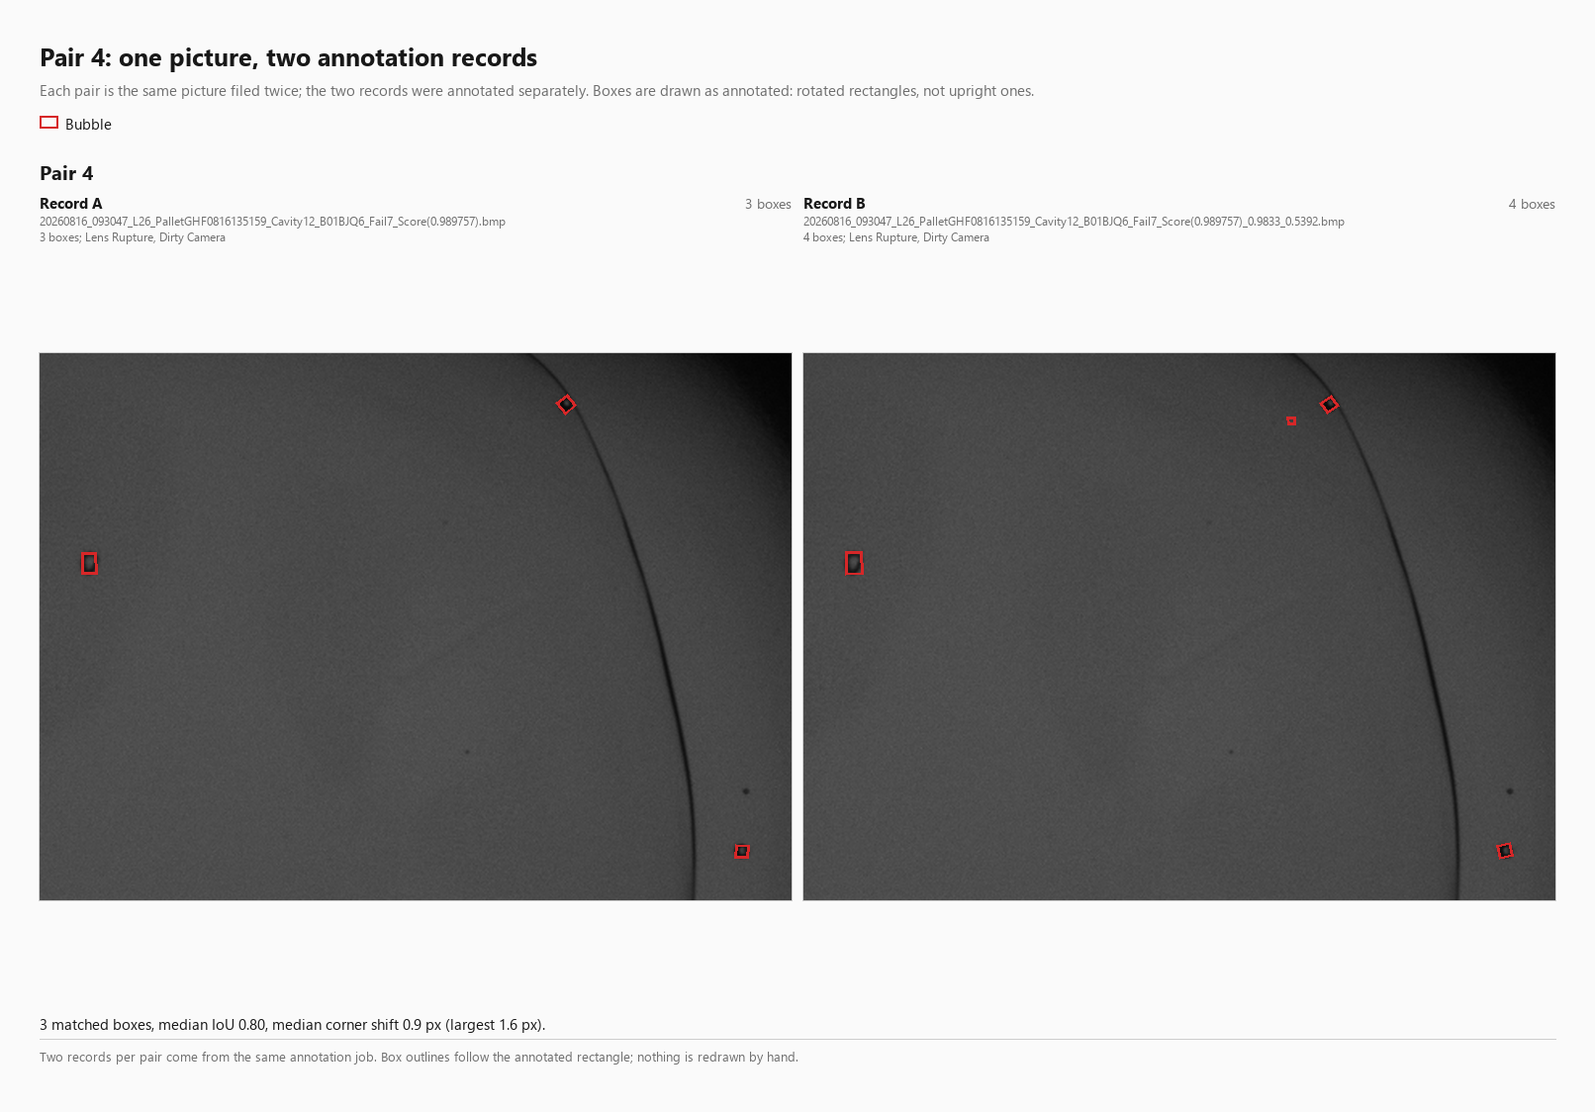
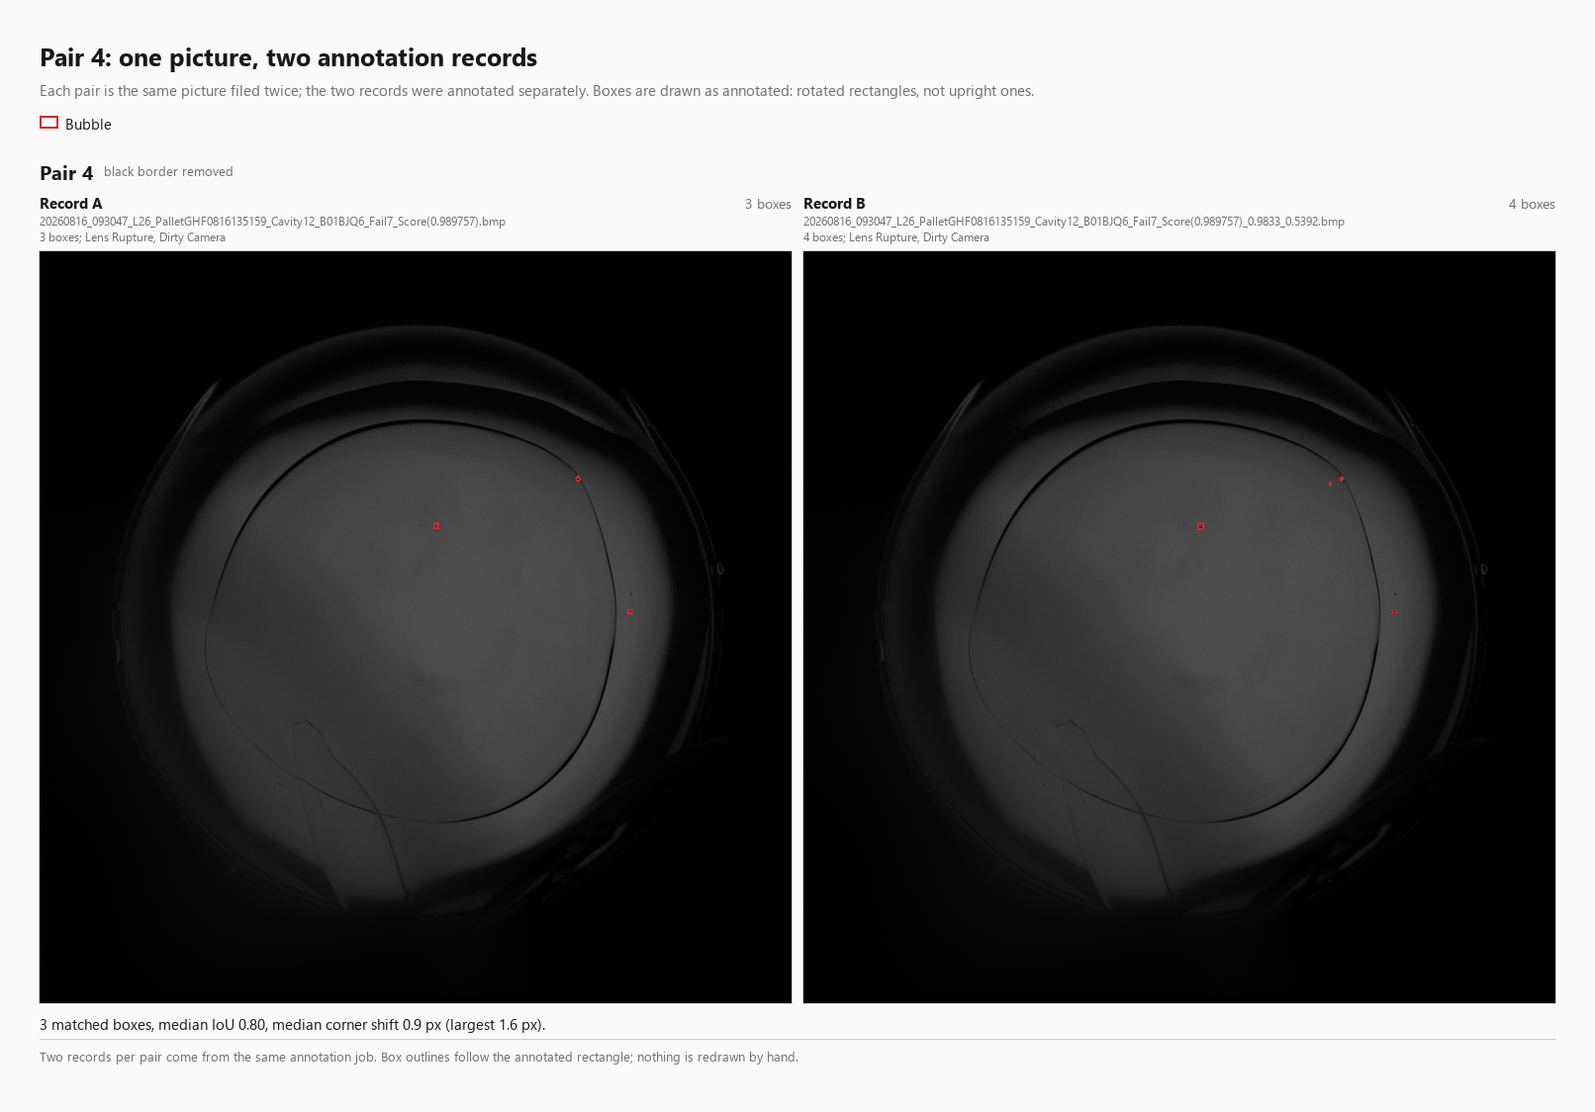
docs: rule Surface Groove out at the current cut and restate the precedence
The class is below the 200-picture cut, so it is neither a column nor a fail condition
today; when augmentation clears that cut it becomes both. Fail dominates and a picture
passes only with a pass condition, which settles the 18 Bubble-free passes: they pass on
their untagged size-gated class. Verified on the split: 833 passes, all with a pass
condition, none with an empty mark set.

diff --git a/experiments/annotations/draw_frozen_pairs_obb.py b/experiments/annotations/draw_frozen_pairs_obb.py
@@ -14,6 +14,11 @@ Outputs, under reports/frozen_pairs_20261117/:
     pair_<n>_obb.png       one pair on its own canvas, drawn large
     pairs_obb_meta.json    crop windows, box counts and match metrics
 
+Frame per pair: "crop" is the annotated region (pairs 1 to 3). Pair 4 uses
+"trim", which removes only the black border and keeps the whole lit picture, so
+the lead can see both records are the same frame without boxes shrinking to
+points. `--frame whole` keeps the full frame; `--crop-all` reverts the set.
+
 Source pictures are expected in run/frozen_pairs_20261117/src_images/
 (pulled once from the frozen store; run/ is never pushed).
 """
@@ -46,6 +51,12 @@ COLOUR = {
     "P3_EP": (0, 160, 190),     # Extraneous Polymer
 }
 FALLBACK_COLOUR = (200, 0, 200)
+
+# Lead, 23 November: pair 4 is shown larger than a tight annotation crop so a
+# reader can see the two records are the same picture. The black border is
+# trimmed, nothing inside it: "whole" keeps the full frame, "trim" removes only
+# black, "crop" is the annotated region the other three pairs use.
+PAIR_FRAME = {4: "trim"}
 
 # The four size gates are tags, not boxes.  They are stated in the record line.
 GATE_NAME = {
@@ -349,6 +360,57 @@ def crop_window(boxes: list[dict], width: int, height: int, pad_frac=0.06) -> tu
     return x0, y0, x1, y1
 
 
+def trim_window(image: Image.Image, lit_above: int = 3, min_run: int = 24,
+                pad_frac: float = 0.05, extra_top_right: float = 0.05):
+    """Window of the specimen: drops black border, keeps every lit pixel of it.
+
+    The extent comes from lit runs that are at least `min_run` pixels long, so
+    scattered speckle cannot stretch the window, and the extreme lit pixels are
+    measured directly rather than from row counts. Padding is uniform 5 percent
+    of the long side, plus a little more at the top and right.
+    """
+    import numpy as np
+
+    w, h = image.size
+    lit = np.asarray(image.point(lambda v: 255 if v > lit_above else 0)) > 0
+
+    xs0, xs1, ys0, ys1 = [], [], [], []
+    for y in range(h):
+        row = lit[y]
+        d = np.diff(np.concatenate(([0], row.view(np.int8), [0])))
+        starts, ends = np.nonzero(d == 1)[0], np.nonzero(d == -1)[0]
+        for s, e in zip(starts, ends):
+            if e - s >= min_run:
+                xs0.append(s)
+                xs1.append(e - 1)
+    for x in range(w):
+        col = lit[:, x]
+        d = np.diff(np.concatenate(([0], col.view(np.int8), [0])))
+        starts, ends = np.nonzero(d == 1)[0], np.nonzero(d == -1)[0]
+        for s, e in zip(starts, ends):
+            if e - s >= min_run:
+                ys0.append(s)
+                ys1.append(e - 1)
+    if not xs0 or not ys0:
+        return (0, 0, w, h)
+
+    x0, x1 = int(min(xs0)), int(max(xs1)) + 1
+    y0, y1 = int(min(ys0)), int(max(ys1)) + 1
+    pad = int(round(pad_frac * max(x1 - x0, y1 - y0)))
+    extra = int(round(extra_top_right * max(x1 - x0, y1 - y0)))
+    return (max(0, x0 - pad), max(0, y0 - pad - extra),
+            min(w, x1 + pad + extra), min(h, y1 + pad))
+
+
+def edge_tone(image: Image.Image, crop) -> tuple[int, int, int]:
+    """Grey tone at the corners of a window, used to fill the cell behind it."""
+    x0, y0, x1, y1 = crop
+    px = sorted(int(image.getpixel(p)) for p in
+                ((x0, y0), (x1 - 1, y0), (x0, y1 - 1), (x1 - 1, y1 - 1)))
+    v = px[1]                      # lower middle: one bright corner cannot lift it
+    return (v, v, v)
+
+
 def record_line(rec: dict, names: dict[str, str]) -> str:
     parts = []
     for tag in rec["tags"]:
@@ -357,7 +419,8 @@ def record_line(rec: dict, names: dict[str, str]) -> str:
     return s + ("; " + ", ".join(parts) if parts else "")
 
 
-def draw_panel(sheet: Sheet, x, y, w, h, image, crop, boxes, colour_by_code, line_px, aabb=False):
+def draw_panel(sheet: Sheet, x, y, w, h, image, crop, boxes, colour_by_code, line_px,
+               aabb=False, card=None):
     x0, y0, x1, y1 = crop
     piece = image.crop(crop)
     cw, ch = piece.size
@@ -365,7 +428,12 @@ def draw_panel(sheet: Sheet, x, y, w, h, image, crop, boxes, colour_by_code, lin
     tw, th = max(1, int(round(cw * scale))), max(1, int(round(ch * scale)))
     ox = x + (w - tw) // 2
     oy = y + (h - th) // 2
-    sheet.d.rectangle([ox - 1, oy - 1, ox + tw, oy + th], fill=CARD, outline=RULE)
+    if card is None:
+        sheet.d.rectangle([ox - 1, oy - 1, ox + tw, oy + th], fill=CARD, outline=RULE)
+    else:
+        # A trimmed frame keeps the square cell: the cell takes the picture's own
+        # edge tone, so the letterbox reads as part of the frame, not as a gap.
+        sheet.d.rectangle([x - 1, y - 1, x + w, y + h], fill=card, outline=RULE)
     sheet.img.paste(piece.resize((tw, th), Image.LANCZOS), (ox, oy))
 
     for b in boxes:
@@ -430,9 +498,29 @@ def build_sheet(pairs, records, images, names, out_path, panel_w, panel_h,
         rec_a, rec_b = records[pair["a"]], records[pair["b"]]
         all_boxes = rec_a["boxes"] + rec_b["boxes"]
         w_img, h_img = rec_a["width"] or 2448, rec_a["height"] or 2048
-        crop = crop_window(all_boxes, w_img, h_img)
+        # Pair 4 is shown larger than a tight annotation crop so the two records
+        # are visibly the same picture. "trim" drops only the black border: the
+        # lit window is the union over both records, so neither panel loses a
+        # single lit pixel the other keeps.
+        frame = pair.get("frame", "crop")
+        if frame == "whole":
+            crop = (0, 0, w_img, h_img)
+        elif frame == "trim":
+            wa = trim_window(images[pair["a"]])
+            wb = trim_window(images[pair["b"]])
+            crop = (min(wa[0], wb[0]), min(wa[1], wb[1]), max(wa[2], wb[2]), max(wa[3], wb[3]))
+        else:
+            crop = crop_window(all_boxes, w_img, h_img)
+        line_px_pair = max(1, min(line_px, int(round(panel_w / 500)))) if frame != "crop" else line_px
+        card = edge_tone(images[pair["a"]], crop) if frame == "trim" else None
 
-        sheet.text((px, py), f"Pair {pair.get('no', idx + 1)}", 20, bold=True)
+        label = f"Pair {pair.get('no', idx + 1)}"
+        sheet.text((px, py), label, 20, bold=True)
+        if frame != "crop":
+            # say why this pair looks further out than the other three
+            off = int(text_w(sheet.d, label, sheet.font(20, bold=True))) + 10
+            note = "whole picture" if frame == "whole" else "black border removed"
+            sheet.text((px + off, py + 3), note, 13, fill=MUTED)
 
         panels = []
         for k, (tag, rec, base) in enumerate((("Record A", rec_a, pair["a"]), ("Record B", rec_b, pair["b"]))):
@@ -449,10 +537,13 @@ def build_sheet(pairs, records, images, names, out_path, panel_w, panel_h,
                        fit_text_middle(sheet.d, record_line(rec, names), sheet.font(12), panel_w),
                        12, fill=MUTED)
             geom = draw_panel(sheet, x, py + pair_label_h + head_h, panel_w, panel_h,
-                              images[base], crop, rec["boxes"], colour_by_code, line_px, aabb=aabb)
+                              images[base], crop, rec["boxes"], colour_by_code, line_px_pair,
+                              aabb=aabb, card=card)
             panels.append({"record": tag, "basename": base,
                            "crop": {"x0": crop[0], "y0": crop[1], "x1": crop[2], "y1": crop[3]},
-                           "line_px": line_px, **geom})
+                           "frame": {"crop": "annotated region", "whole": "whole picture",
+                                     "trim": "black border removed"}[frame],
+                           "line_px": line_px_pair, **geom})
 
         m = match(rec_a["boxes"], rec_b["boxes"], aabb=aabb)
         ious = [x["iou"] for x in m]
@@ -476,6 +567,8 @@ def build_sheet(pairs, records, images, names, out_path, panel_w, panel_h,
             "boxes_only_in_b": len(rec_b["boxes"]) - len(m),
             "job": rec_a.get("job", ""),
             "mode": "axis-aligned" if aabb else "oriented",
+            "frame": {"crop": "annotated region", "whole": "whole picture",
+                      "trim": "black border removed"}[frame],
             "panels": panels,
         })
 
@@ -499,13 +592,24 @@ def main():
     ap.add_argument("--flip", action="store_true", help="reverse the spin direction (convention re-check only)")
     ap.add_argument("--out", type=Path, help="output png")
     ap.add_argument("--meta", type=Path, help="output json")
+    ap.add_argument("--full-frame", type=int, action="append", default=None,
+                    help="pair number(s) to draw on the whole frame")
+    ap.add_argument("--frame", choices=["crop", "whole", "trim"], default=None,
+                    help="frame mode for the pair(s) being drawn")
+    ap.add_argument("--crop-all", action="store_true", help="draw every pair as an annotation crop")
     args = ap.parse_args()
 
     names = class_names()
     records = parse_annotations()
     pairs = duplicate_pairs()
+    modes = dict(PAIR_FRAME)
+    for n in args.full_frame or []:
+        modes[n] = "whole"
+    if args.crop_all:
+        modes = {}
     for i, p in enumerate(pairs, 1):
         p["no"] = i
+        p["frame"] = args.frame or modes.get(i, "crop")
     if args.pair:
         pairs = [pairs[args.pair - 1]]
 

diff --git a/HANDOFF.md b/HANDOFF.md
@@ -21,8 +21,15 @@ questions are still with the lead; do not build on their answers until they land
 - The doubt that this case might not occur in the data is answered: on the frozen split 755 pictures
   carry one of the four classes with no size flag at all, and 244 of them pass, 32 in the test split.
 - Recount and decisions: `docs/decisions/2026-11-23-fm-debris-scope.md`.
-- **New point for the lead:** 18 of those 244 carry no Bubble box at all and still pass. If a Bubble-free
-  object set should not pass, the rule needs one more sentence.
+- **Surface Groove is not a fail class today.** It sits below the 200-picture cut, so it is neither a
+  column nor a fail condition. When augmentation brings the class to about 200 pictures it becomes a fail
+  class and takes a column, on the same trigger, with no new decision needed. 88 pictures carry it and 87
+  already fail for another reason, so today it changes one train verdict and no test number.
+- **Precedence, restated by the lead:** fail dominates. A picture fails if any fail condition is on it,
+  and passes only when none is. Pass conditions are a Bubble box or an untagged size-gated class. That
+  settles the 18 Bubble-free passes: they pass on their untagged class, not on an empty mark set. No
+  picture in the split has an empty mark set.
+- Decision file: `docs/decisions/2026-11-23-surface-groove-threshold.md`.
 
 ## Frozen split and run
 
@@ -47,18 +54,22 @@ questions are still with the lead; do not build on their answers until they land
   `reports/frozen_pairs_20261117/pairs_obb.png` and the four single sheets. Renderer and verifier in
   `experiments/annotations/`. Oriented boxes are now the standing rule:
   `docs/decisions/2026-11-23-oriented-boxes-default.md`.
+- Pair 4 framing, from the lead's feedback: only the black border is removed. The window is the
+  specimen extent from lit runs (>= 24 px) padded 5 percent, plus 5 percent at the top and right,
+  which the user marked as too tight. 823 lit pixels of 1.36 million fall outside it, all 4 to 15
+  grey levels in 267 isolated clusters (sensor speckle). Panel scale 0.483, lens about 660 px in a
+  760 px panel, visible margins 73/68/68/76. Pairs 1 to 3 keep the annotated region.
+  `--frame trim|whole|crop` switches the modes.
+- The pair-4 framing is not a new method: it is the content-anchored border crop specified on
+  2026-09-03 in `reports/preprocessing/fixed_size_crop_spec.md`. The run-length detection there
+  answers that spec's own guard-cause note about a far streak inflating the content box. Noted in
+  that doc and in the figure reference; present it as the original border crop.
 
 ## Open with the lead
 
 1. Sign-off on the pass/fail counts.
 2. The 147 held add-backs wait on client confirmation; 27 legacy pictures are discarded.
 3. The four duplicate pairs: the split keeps the highest-box copy; not yet confirmed.
-4. **Surface Groove**: 88 pictures carry it, as 132 boxes, but it is one of the six classes removed as
-   columns under the 200-picture cut, so it is not one of the 17 columns. Under the current text such a
-   picture passes unless another fail class is present. Exactly one picture in the whole split (train)
-   changes verdict if it counts as a defect; all 12 test pictures carrying it already fail for other
-   reasons. Is it a defect?
-5. The 18 Bubble-free pictures that pass under strict PASS.
 
 ## Next, in order
 
@@ -67,6 +78,8 @@ questions are still with the lead; do not build on their answers until they land
 3. Decide whether the main table stays at 0.5 or moves to the provisional validation cuts.
 4. Confirm the AUROC and AUPRC framing with the lead.
 5. Finalize the workbook.
+6. When the Surface Groove augmentation lands and the class clears 200 pictures: add it as an 18th column,
+   retrain, and say in the report that the result is not comparable with the 17-column run.
 
 ## Housekeeping state
 

diff --git a/docs/decisions/2026-11-23-surface-groove-threshold.md b/docs/decisions/2026-11-23-surface-groove-threshold.md
@@ -1,0 +1,54 @@
+---
+title: Surface Groove is not a fail class until it clears the 200-picture cut
+date: 2026-11-23
+type: decision
+status: active
+where: docs/decisions/2026-11-23-surface-groove-threshold.md
+---
+
+# Surface Groove is not a fail class until it clears the 200-picture cut
+
+## Decision (lead, 23 November 2026)
+
+Surface Groove (`P1_SG`) is **not** a fail class today. It is an object class with 88 pictures in the
+frozen export, below the 200-picture cut that already removed six classes as columns, so it is neither a
+model column nor a fail condition.
+
+The class is expected to be augmented to about the 200-picture mark. **When it clears that cut it becomes
+a fail class**, on the same terms as the other object classes, and it takes a column. No new decision is
+needed when that happens; the cut is the trigger.
+
+## Verdict precedence, restated
+
+- A picture fails if any fail condition is present, whatever else is on the picture. Fail dominates.
+- A picture passes only when no fail condition is present.
+- The pass conditions are a Bubble box, or an untagged size-gated class. Either one alone is enough.
+- There is no third verdict, and no picture is unclassified.
+
+Checked against the frozen split: 833 pictures pass (568 train, 117 validation, 148 test), and every one
+of them carries a pass condition: 815 a Bubble box, 18 an untagged size-gated class. No picture in the
+split has an empty mark set, so the rule has no gap to fill.
+
+## What the ruling changes today
+
+Nothing in the reported numbers.
+
+- 88 pictures carry a groove: 61 train, 15 validation, 12 test.
+- 87 of them already fail for another reason: a presentation tag, Bubble Cluster, Wet Package or a size
+  tag. All 12 test pictures are in that group.
+- One train picture depends on the ruling: one groove box, seven Bubble boxes, no tags. It passes today,
+  and it will fail once Surface Groove is a fail class.
+
+## Why the column cut does not soften the rule
+
+Five of the six classes removed as columns are lens presentation tags, and presentation tags fail
+regardless of whether they have a column. No verdict depends on them: every picture carrying one of them
+also carries a kept class. So the cut removes model columns, not fail conditions.
+
+## When the class clears the cut
+
+- The label space goes from 17 columns to 18.
+- The picture-level split can be reused if the picture set is not changed, because the split is by
+  picture and seed, not by column.
+- The model has to be retrained on the 18-column set. Results are not directly comparable with the
+  17-column run, and the comparison should say so.

diff --git a/docs/INDEX.md b/docs/INDEX.md
@@ -11,7 +11,7 @@ where: docs/INDEX.md
 Generated by `tools/index_docs.py`. Do not edit by hand: your edit is lost on the next run.
 A file appears here the moment it exists. Add the five line header to make its row precise.
 
-Files indexed: 198. Types: state (3), session (10), result (28), decision (20), report (33), experiment (14), protocol (44), method (2), reference (24), doc (8), transfer (4), task (8).
+Files indexed: 199. Types: state (3), session (10), result (28), decision (21), report (33), experiment (14), protocol (44), method (2), reference (24), doc (8), transfer (4), task (8).
 
 ## state
 
@@ -73,6 +73,7 @@ Files indexed: 198. Types: state (3), session (10), result (28), decision (20), 
 
 | File | Date | Status | What it is |
 |---|---|---|---|
+| [docs/decisions/2026-11-23-surface-groove-threshold.md](../docs/decisions/2026-11-23-surface-groove-threshold.md) | 2026-11-23 | active | Surface Groove is not a fail class until it clears the 200-picture cut |
 | [docs/decisions/2026-11-23-oriented-boxes-default.md](../docs/decisions/2026-11-23-oriented-boxes-default.md) | 2026-11-23 | active | Oriented boxes are the default for every box artefact |
 | [docs/decisions/2026-11-23-fm-debris-scope.md](../docs/decisions/2026-11-23-fm-debris-scope.md) | 2026-11-23 | active | FM and Debris scope, and what strict PASS allows |
 | [docs/decisions/2026-11-20-pass-fail-rule.md](../docs/decisions/2026-11-20-pass-fail-rule.md) | 2026-11-20 | active | Pass/fail rule for the frozen run, with TA/FR/TR/FA labels |
@@ -273,5 +274,5 @@ Files indexed: 198. Types: state (3), session (10), result (28), decision (20), 
 
 ## Files still without a header
 
-0 of 198. The index works without them (date from the filename, type from the folder), but a header is what makes a row precise. Add one when you next touch the file.
+0 of 199. The index works without them (date from the filename, type from the folder), but a header is what makes a row precise. Add one when you next touch the file.
 

diff --git a/reports/preprocessing/fixed_size_crop_spec.md b/reports/preprocessing/fixed_size_crop_spec.md
@@ -196,3 +196,21 @@ Two distinct causes; all are edge cases and logged:
   Multiple Lenses 20260812_..._Cavity14 (multi): 1548 vs 1440 (+108px).
   Multiple Lenses 20260813_..._Cavity11 (multi): 1508 vs 1440 (+68px).
 Guard correctly preserved all content; 0.27% of images; nothing clipped.
+
+## Reused for the frozen duplicate-pair figure (2026-11-23)
+
+The duplicate-pair sheets show pair 4 with the black border removed, which is this rule again:
+detect the lit content, take its bbox, pad it, centre it, keep every lit pixel. Differences for the
+figure only:
+
+- Detection is by lit run length (>= 24 px) at the `> 3` threshold, not blob mean >= 15 with a 500 px
+  minimum. This is the fix the guard-cause analysis above asked for. On that picture, row-count
+  detection kept 2,224 px of width because faint light on the far right satisfied a count, while the
+  specimen ends about 550 px earlier.
+- The window is content bbox plus pad (5 percent of the long side, plus 5 percent at the top and
+  right), not a per-class canonical size, because the figure has one panel per record rather than a
+  fixed-size training crop.
+
+Checked: 823 lit pixels of 1.36 million fall outside the window, all between 4 and 15 grey levels in
+267 isolated clusters. Nothing of the lens or the stain is cut. Present it as the original border
+crop, not as a new framing.

diff --git a/docs/decisions/2026-11-23-fm-debris-scope.md b/docs/decisions/2026-11-23-fm-debris-scope.md
@@ -47,12 +47,9 @@ not from a rule change.
 
 ## Still open
 
-- **Surface Groove.** 88 pictures carry it, as 132 boxes over the frozen export, but it was removed as a
-  column under the 200-picture cut, so it is not one of the 17 columns and the pass/fail rule does not
-  mention it. Under the current text a Surface Groove picture passes unless it also carries another fail
-  class. The lead has not ruled on whether it is a defect.
-  - The cost of the ruling is one picture. Of the 88, 87 already fail for another reason; the single
-    exception is a train picture with one Surface Groove box and seven Bubble boxes and no tags. Counted
-    per split: 61 train, 15 validation, 12 test, and all 12 test pictures already fail.
+- **Surface Groove is settled.** Not a fail class at the current cut, because the class is below the
+  200-picture cut; it becomes one when augmentation clears that cut. One train picture passes on that
+  ruling today and no test picture is affected. See
+  `2026-11-23-surface-groove-threshold.md`.
 - **The model limit still stands.** This run has no size output, so a predicted gated class is a
   predicted fail and only the truth uses the flag. The 244 figure is a truth-side count.

diff --git a/docs/sessions/2026-W48.md b/docs/sessions/2026-W48.md
@@ -46,5 +46,12 @@ was true of the earlier export, not this one. It is out of the 17 columns becaus
 size tag, so the ruling changes exactly one verdict: a train picture with one Surface Groove box, seven
 Bubble boxes and no tags, which passes today. All 12 test pictures are unaffected.
 
+**Ruled the same day:** Surface Groove is not a fail class at the current cut. When augmentation brings
+the class to about the 200-picture mark it becomes a fail class and takes a column, on the same trigger.
+The lead also restated the precedence: fail dominates, and a picture passes only when no fail condition
+is present, on a Bubble box or an untagged size-gated class. That closes the 18 Bubble-free passes,
+which pass on their untagged class. Checked: 833 pictures pass (568 train, 117 validation, 148 test) and
+every one has a pass condition; no picture has an empty mark set.
+
 **Still open:** workbook sign-off and the pass/fail counts, the 147 held add-backs, the four duplicate
-pairs, and whether Surface Groove is a defect.
+pairs.

diff --git a/docs/decisions/2026-11-20-pass-fail-rule.md b/docs/decisions/2026-11-20-pass-fail-rule.md
@@ -27,6 +27,11 @@ The pass/fail verdict is one per picture, under this rule and no other:
 The size-gated classes are Foreign Matter, Fiber, Extraneous Polymer and HEMA. Clear is excluded from
 the frozen set, so it does not enter the counts.
 
+Fail dominates. A picture that carries any fail condition fails, whatever pass condition is also on it,
+and a picture passes only when no fail condition is present. Surface Groove is not a fail class at the
+current cut, because the class sits below the 200-picture cut; it becomes one when the class clears that
+cut. See `2026-11-23-surface-groove-threshold.md`.
+
 Per class, the four counts are one-versus-rest: for that class, TA is class absent and predicted
 absent; FR is class absent and predicted present; TR is class present and predicted present; FA is
 class present and predicted absent. Each class row uses all 2,045 test pictures. These rows are not
